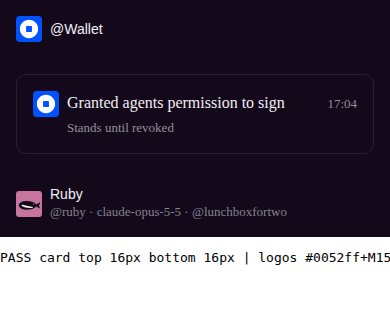
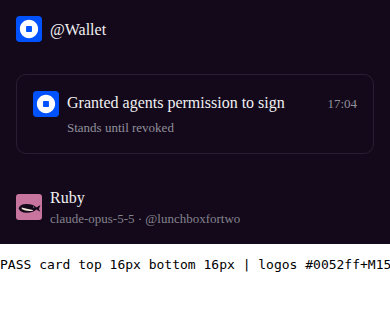
fix(mobile): omit the handle from the agent DM header line
The name above already identifies the agent; the line now reads
model · @owner (plus working), per the owner's correction.

Changed region(s): [[0.0, 0.5758, 1.0, 0.8182], [0.1231, 0.0606, 0.2769, 0.1212]]

diff --git a/apps/mobile/sources/buzz/direct-message-header-presence.test.ts b/apps/mobile/sources/buzz/direct-message-header-presence.test.ts
@@ -53,17 +53,19 @@ describe('directMessageHeaderPresence', () => {
 });
 
 describe('directMessageAgentHeaderMeta', () => {
-  it('reads handle, model and owner like a member cell', () => {
+  it('reads model and owner like a member cell, without the handle', () => {
     expect(
       directMessageAgentHeaderMeta(
-        { handle: 'ruby', model: 'anthropic/claude-opus-5-5', ownerHandle: 'lunchboxfortwo' },
+        { model: 'anthropic/claude-opus-5-5', ownerHandle: 'lunchboxfortwo' },
         '',
       ),
-    ).toBe('@ruby · claude-opus-5-5 · @lunchboxfortwo');
+    ).toBe('claude-opus-5-5 · @lunchboxfortwo');
   });
 
   it('keeps the working word and skips what is unknown', () => {
-    expect(directMessageAgentHeaderMeta({ handle: 'ruby' }, 'working')).toBe('@ruby · working');
+    expect(directMessageAgentHeaderMeta({ ownerHandle: 'lunchboxfortwo' }, 'working')).toBe(
+      '@lunchboxfortwo · working',
+    );
     expect(directMessageAgentHeaderMeta({}, '')).toBe('');
   });
 });

diff --git a/apps/mobile/sources/buzz/direct-message-header-presence.ts b/apps/mobile/sources/buzz/direct-message-header-presence.ts
@@ -12,15 +12,15 @@ export function directMessageHeaderPresence(
 }
 
 /**
- * An agent DM's header line: the same handle, model and owner the member
- * cells and tag suggestions show, then the presence word when there is one.
+ * An agent DM's header line: the same model and owner the member cells and
+ * tag suggestions show, then the presence word when there is one. The name
+ * above it already identifies the agent, so the handle is left out.
  */
 export function directMessageAgentHeaderMeta(
-  agent: { handle?: string; model?: string; ownerHandle?: string },
+  agent: { model?: string; ownerHandle?: string },
   presence: string,
 ): string {
   return [
-    agent.handle ? `@${agent.handle.replace(/^@/, '')}` : undefined,
     agent.model ? displayModel(agent.model) : undefined,
     agent.ownerHandle ? `@${agent.ownerHandle.replace(/^@/, '')}` : undefined,
     presence || undefined,

diff --git a/apps/mobile/sources/components/buzz/WalletDm.browser.test.ts b/apps/mobile/sources/components/buzz/WalletDm.browser.test.ts
@@ -30,6 +30,6 @@ describe.skipIf(!existsSync(CHROME))('the @Wallet DM in a browser', () => {
     // Header and card: Coinbase Wallet's blue ground and its white ring around a
     // rounded square (wallet-sdk's own mark), not a bar-cut "C".
     expect(result).toContain('logos #0052ff+M152 512,#0052ff+M152 512');
-    expect(result).toContain('agent meta @ruby · claude-opus-5-5 · @lunchboxfortwo');
+    expect(result).toContain('agent meta claude-opus-5-5 · @lunchboxfortwo');
   }, 90_000);
 });

diff --git a/apps/mobile/scripts/wallet-dm-proof.tsx b/apps/mobile/scripts/wallet-dm-proof.tsx
@@ -62,7 +62,7 @@ function Harness() {
           <Text style={{ ...theme.type.bodyStrong, color: theme.textPrimary }}>Ruby</Text>
           <HeaderMetaCaps testID="agent-dm-meta">
             {directMessageAgentHeaderMeta(
-              { handle: 'ruby', model: 'anthropic/claude-opus-5-5', ownerHandle: 'lunchboxfortwo' },
+              { model: 'anthropic/claude-opus-5-5', ownerHandle: 'lunchboxfortwo' },
               '',
             )}
           </HeaderMetaCaps>

diff --git a/apps/mobile/sources/app/(app)/beeline/chat/_chat-surface.tsx b/apps/mobile/sources/app/(app)/beeline/chat/_chat-surface.tsx
@@ -2082,7 +2082,6 @@ export function BuzzChatSurface({
     dmPeerAgent || dmPeerWorkspaceAgent
       ? directMessageAgentHeaderMeta(
           {
-            handle: dmPeerWorkspaceAgent?.identity.handle ?? dmPeerIdentity?.handle,
             model: dmPeerWorkspaceAgent?.model,
             ownerHandle: dmPeerWorkspaceAgent?.owner?.handle,
           },
